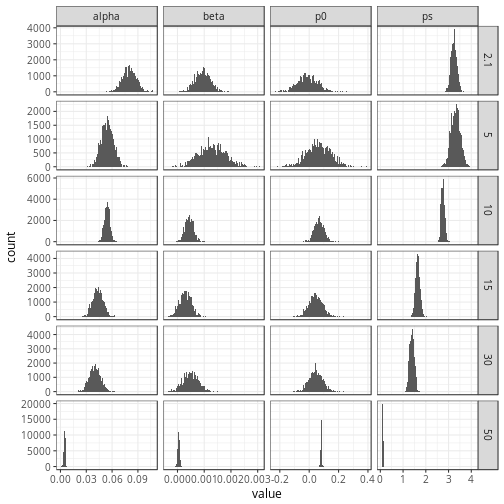
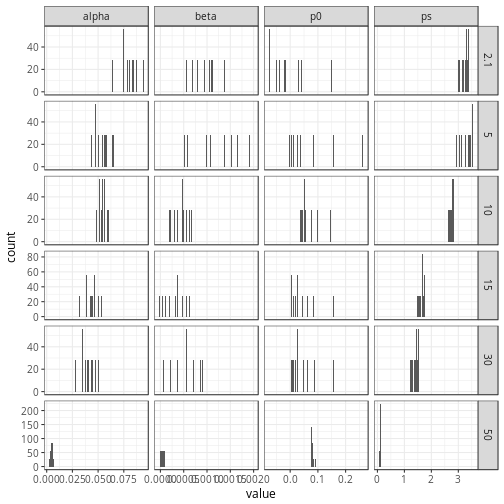
update the calculation

diff --git a/reports/pp.md b/reports/pp.md
@@ -8,7 +8,7 @@
 # <><><><><><><><><><><><><><><><><><><><><><><><><><><><><><><><><><><><><><>
 ```
 
-Last updated: 2016-11-30 10:10:43
+Last updated: 2016-11-30 10:12:25
 ## Open the PS file and do some cleaning
 
 
@@ -228,7 +228,7 @@ For each P vs E curve, I generate *n* simulated curves based a multivariate norm
 
 ```r
 mod <- mod %>% 
-  mutate(simulation = map2(model, data, simul, n = 1000)) # 10 simulations per depth
+  mutate(simulation = map2(model, data, simul, n = 10)) # 10 simulations per depth
 
 p <- map2(mod$simulation, mod$depth, plot_simulations)
 
@@ -301,6 +301,7 @@ sd(daily_pp$daily_pp)
 ```
 
 ```
-## [1] 42.6375
+## [1] 42.48122
 ```
 
+Hence, the value of 707.5933622
